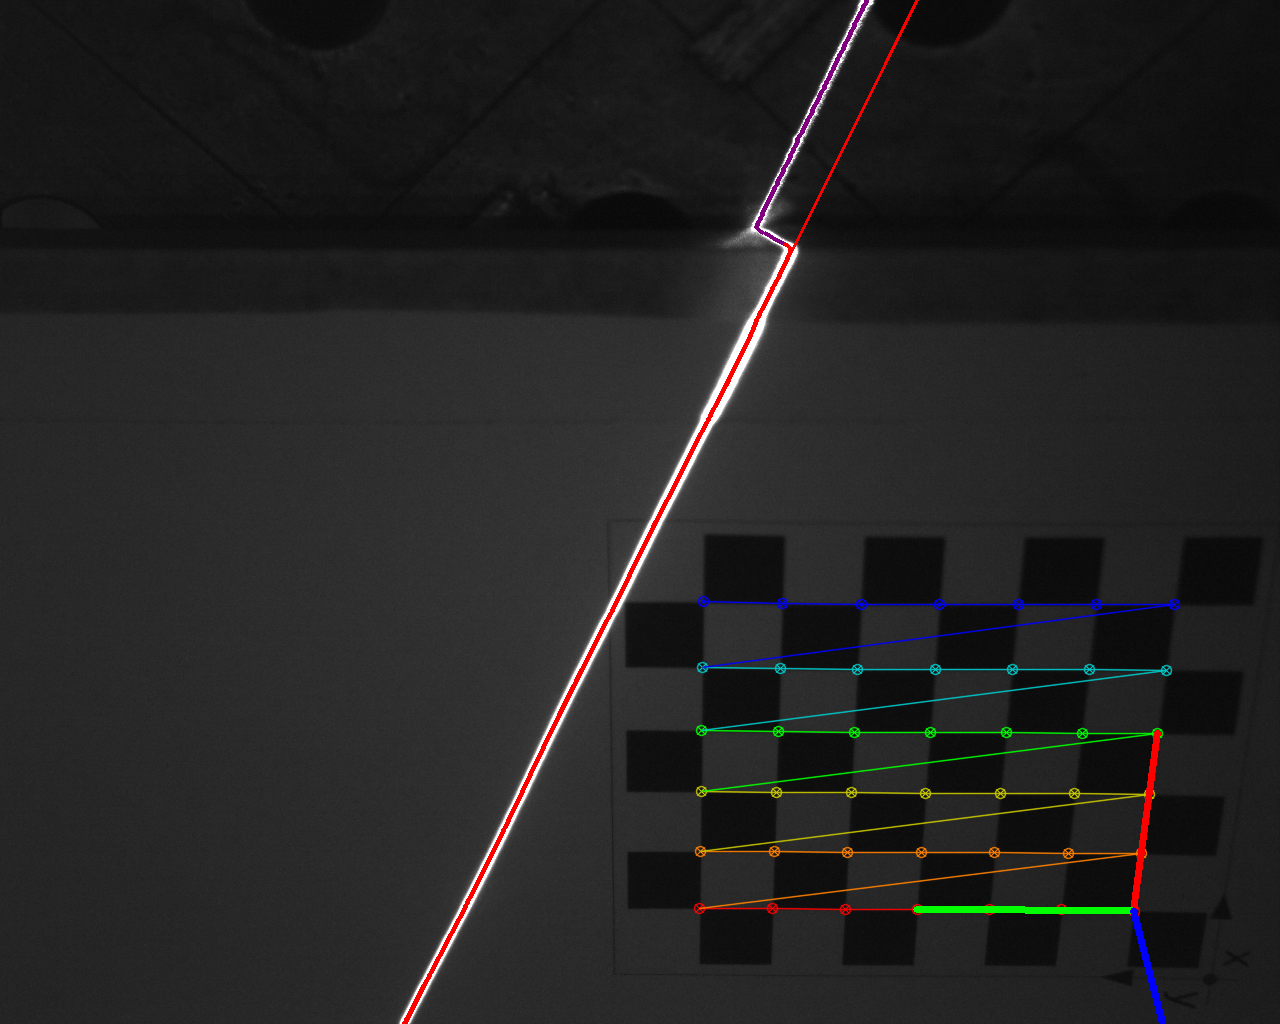
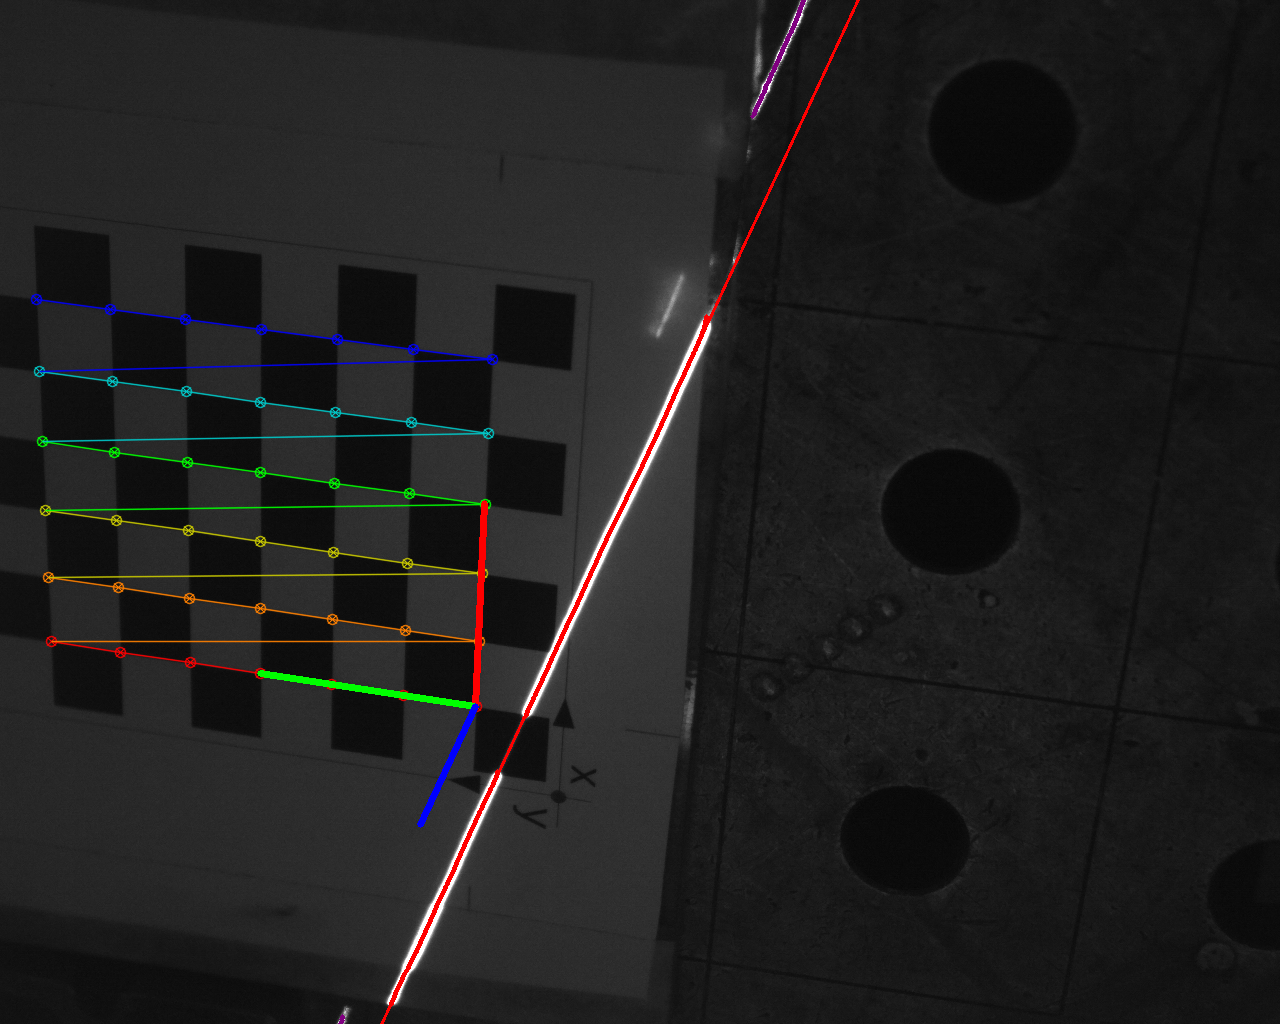
Updated camera calibration.

diff --git a/etna_calib/src/icv/calibration.py b/etna_calib/src/icv/calibration.py
@@ -551,8 +551,8 @@ if __name__ == '__main__':
     imgname = '../../data/fchecker.png'
     posname = '../../data/pchecker.txt'
     # Workobject
-    x, y, z = (1.6584, 0.05207465, 0.937937) # ERROR in this measure (z aprox 1.0)
-    qx, qy, qz, qw = (0.002393586, 0.00884363, -0.004250817, 0.99998635)
+    x, y, z = (1.596609, 0.101342, 0.936394) # ERROR in this measure (z aprox 1.0)
+    qx, qy, qz, qw = (0.00185993, -0.00245949, -0.01122562, 0.99994981)
     W2K = calc.quatpose_to_matrix(*(np.array([x, y, z]), np.array([qx, qy, qz, qw])))
     # rot1 = calc.rpypose_to_matrix(np.array([0, 0, 0]), np.array([0, 0, -np.pi/2]))
     # rot2 = calc.rpypose_to_matrix(np.array([0, 0, 0]), np.array([0, np.pi, 0]))
